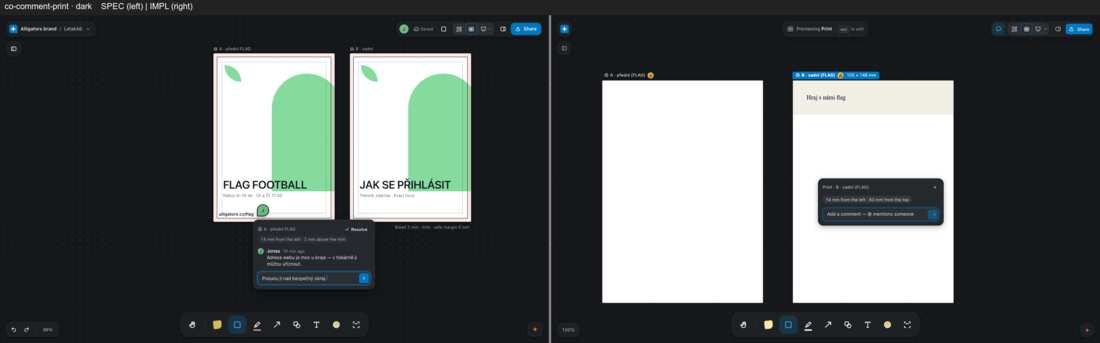
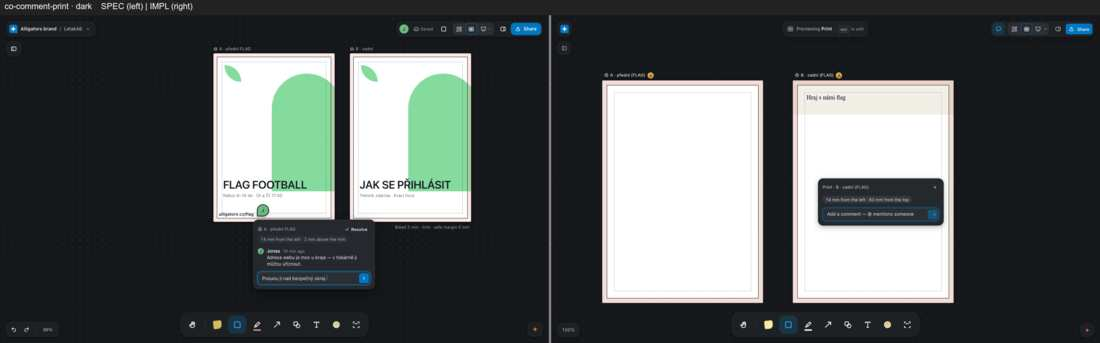
p8-c8-exshare: round-8 re-shoot of 09 (ex-batch, ex-video, ex-offline, ex-advanced) and 10 (co-share-advanced, co-ask-edit, co-comment-print), INDEX, fix files

Changed region(s): [[0.5255, 0.1749, 0.8655, 0.9038]]

diff --git a/.ai/plans/notes/v2-evidence/phase8-fidelity/09-export/fix-c8-exshare.md b/.ai/plans/notes/v2-evidence/phase8-fidelity/09-export/fix-c8-exshare.md
@@ -1,0 +1,17 @@
+# 09 Export — round 8 (p8-c8-exshare): done / open
+
+Checklist: the MUST rows of `critic-bar3.md` (ex-video, ex-offline, ex-batch, ex-advanced). Verification: fail-first tests (red on the feat tip, green after; the ex-advanced test also red with `image.jsx` put back), tsc + biome, release rebuild, `check-client-boots-source`, `opening-card-clears`, re-shoot with `_c8-harness-g3` on the Mac mini (`chain.sh 09` = `t09b vid adv`, light + dark).
+
+## Done
+
+| id | what | tests |
+|---|---|---|
+| ex-video, ex-offline | the footer's lane words follow the Render card that is ticked, not the lane the estimate was asked in (`export-sheet.jsx`, the `summaryWords` call: `{ ...est, lane: render.lane }` when the Render row is shown). Own commit, one line | `v2-export-video.test.tsx` (Suggest each time ticks the cloud → "in the cloud"; pick On this Mac → "on this Mac"; back) |
+| ex-batch | **Folders › One per canvas** is real: spec option `options.folders: 'one' \| 'per-canvas'` (`spec-v2.ts` validates it; `canvasDir` in `file-names.ts` = the canvas path without `.tsx` / the design root's own `ui/`, every segment made safe); `collectGroup` names each file `<canvas path>/<name>` and judges a duplicate inside its folder; a one-file result downloads under its own name, never the path; a retry reads the held zip back with those names. The sheet's select offers the two, the path hint under it reads "<canvas path> · <first file>"; ignored on Selection scope (that scope has File names instead) | `p8-c8-exshare-folders.test.ts` (canvasDir, validation, zip entries, per-folder dedupe, single file), `v2-export-batch.test.tsx` (select, posted spec, default sends nothing) |
+| ex-advanced | each part sits under its visible heading (Image — PNG · JPG · Print PDF · Video — MP4 · GIF · WebM · Where it renders, `export-adv-<part>-title`); JPG quality is always on the Image part; Bleed keeps its switch and has the board's mm field beside it (read-only: the page is trim + 2 × bleed, so an export cannot change the amount; it reads the artboard's bleed, 3 mm until the paper is known); Paper is the board's select with the one answer there is ("Same as artboard"); a select no longer outgrows its column (the Text select was clipped at the sheet's right edge) | `v2-export-batch.test.tsx` (headings, JPG row, Bleed field read-only, Paper select; red with `image.jsx` at the feat tip) |
+
+## Open
+
+- ex-advanced: Image title says "PNG · JPG", the board says "· SVG" — SVG has none of the image knobs, so the title stays honest.
+- ex-advanced: Bleed amount and Paper are drawn but not editable (no export-time bleed or paper override exists; both are authored on the artboard). A board follow-up if they are meant to change per export.
+- ex-offline: the footer line is the sheet's own words ("about 40 seconds on this Mac"), the board's offline line reads "starts now on this Mac, about 3 min" and counts videos ("2 videos") — copy not changed.

diff --git a/.ai/plans/notes/v2-evidence/phase8-fidelity/10-share-and-collaboration/fix-c8-exshare.md b/.ai/plans/notes/v2-evidence/phase8-fidelity/10-share-and-collaboration/fix-c8-exshare.md
@@ -1,0 +1,18 @@
+# 10 Share and collaboration — round 8 (p8-c8-exshare): done / open
+
+Checklist: the MUST rows of `critic-bar3.md`. Verification: fail-first test (red on the feat tip), tsc + biome, release rebuild, `check-client-boots-source`, `opening-card-clears`, re-shoot with `_c8-harness-g4` on the Mac mini (`SCNS="s10 s10cm s10d"`, light + dark).
+
+## Done
+
+| id | what | tests |
+|---|---|---|
+| co-share-advanced | App link / This Mac / Hub values show whole (the mono field's width follows its text — `${len + 1}ch` — so the ellipsis only appears when the sheet itself is narrower); the extra hint "Opens the folder on this Mac only." is gone; the Role select is live on a Team only link (the link row's own sub-line already names a team link's role) | `share-advanced.test.tsx` (Role enabled, width of the three values, no hint) |
+| co-ask-edit | **not a product bug**: with the same code the tip renders (shot locally in dark; on the mini in both themes once the drag repeats). The D5 mini shot lost it because the first drag landed before the canvas frame had installed its listener and the tip is transient (gone after release). Harness: the drag repeats until `access-view-tip` is visible, then the shot is taken while it shows. Viewer lands in Viewing for the shot: the harness presses Viewing first — a view-only link BOOTS in Preview by the owning board 04 (`md-edge-viewer`) and V2-1.2 §5.4 (`initialMode`), so the product default is unchanged | harness only (`_c8-harness-g4/s10d.mjs`) |
+| co-comment-print | harness: View › Print guides is on (⌘K) — trim + safe-margin guides are in the shot | harness only (`s10cm.mjs`) |
+
+## Open
+
+- co-comment-print: the legend "Bleed 3 mm · trim · safe margin 5 mm" is a board text (also on 08 `ak-print-view`) that the product never drew. The kind overlay (`artboard-guides-overlay.tsx`) clips its content at the artboard (`overflow: hidden`), so a caption under the artboard needs its own un-clipped layer: an 08 / canvas-lib change, not started.
+- co-sync-offline / co-sync-back: per-row "not sent" / "sending" labels are a **data gap**. The outbox (V2-1.14) holds INTENTS (AI prompts, invites, asks, cloud exports, handoffs); a canvas edit is the content lane, whose status carries a COUNT (`pending`, `/_sync-status`) and no per-canvas record (`file-ledger.ts` knows a file differs from its ancestor, but nothing exposes it). Needs a per-path pending list from the sync runtime first.
+- co-sync-offline: the queued comment bubble ("Queued — sends when this Mac is online.") — same gap for comments (not an outbox kind).
+- Viewer lands in Preview (boot rule from 04 / V2-1.2), the board 10 frame draws Viewing: harness presses Viewing; a product change would contradict the owning board.

diff --git a/.ai/plans/notes/v2-evidence/phase8-fidelity/10-share-and-collaboration/INDEX.md b/.ai/plans/notes/v2-evidence/phase8-fidelity/10-share-and-collaboration/INDEX.md
@@ -176,3 +176,14 @@ Every reachable id re-shot on the merged tip `feat/maude-v2` @ `e37e7d82a` (rele
 | co-mention-notify | unreachable | unreachable | OS banner + hub mention e-mail template do not exist in the lane |
 
 Harness note: picture fixtures are drawn in Chromium (no ImageMagick on the runner), not `plasma:fractal` — only matters for canvases with placed photos (12).
+
+## Round 8 (p8-c8-exshare) — after
+
+Re-shot light + dark on the Mac mini (`_c8-harness-g4`: `s10e` for the tall Advanced frame, `s10cm`, `s10d`). Pairs overwritten; spec reused. No verdicts here.
+
+| id | after (round 8) |
+|---|---|
+| co-share-advanced | App link / This Mac / Hub values whole (no ellipsis); no "Opens the folder on this Mac only."; Role select live on a Team only link |
+| co-ask-edit | the view-only tip shows (the drag repeats until it does); Viewing pressed (the harness takes it; the view-only boot default stays Preview) |
+| co-comment-print | View › Print guides on (trim + safe margin guides); the board's "Bleed 3 mm · trim · safe margin 5 mm" legend is not a product element (open, see fix-c8-exshare.md) |
+| co-sync-offline, co-sync-back | not re-shot: per-row "not sent" / "sending" labels are a data gap (no per-canvas pending data; see fix-c8-exshare.md) |

diff --git a/.ai/plans/notes/v2-evidence/phase8-fidelity/09-export/INDEX.md b/.ai/plans/notes/v2-evidence/phase8-fidelity/09-export/INDEX.md
@@ -248,3 +248,14 @@ Final verification shoot after stage C round 7, on the merged tip (release-built
 | ex-edges | unreachable — viewer-role export and "AI is changing this artboard" need a viewer session / a live AI edit; spec-only frame stands | unreachable (same) |
 
 Totals: 38 id×theme re-shot (19 ids), 4 unreachable (2 ids). Watchdog notes (harness): `t09 dark` and `ho light` hung after their last shot and were killed by the idle watchdog; all frames of those runs were already written.
+
+## Round 8 (p8-c8-exshare) — after
+
+Re-shot light + dark on the Mac mini (`_c8-harness-g3`: `t09b`, `vid`, `adv`) on the release client of `feat/maude-v2` + this round. Pairs overwritten; spec reused. No verdicts here.
+
+| id | after (round 8) |
+|---|---|
+| ex-video | footer lane words follow the ticked Render card ("... in the cloud" with In the cloud ticked) |
+| ex-offline | same footer rule; cloud card still the default tick (harness estimate suggests it) |
+| ex-batch | Folders set to **One per canvas** in the shot (select offers One folder / One per canvas; path hint "<canvas path> · <file>") |
+| ex-advanced | a visible heading over each part, JPG quality row, Bleed switch + "3 mm" field, Paper select, Text select inside its column |
